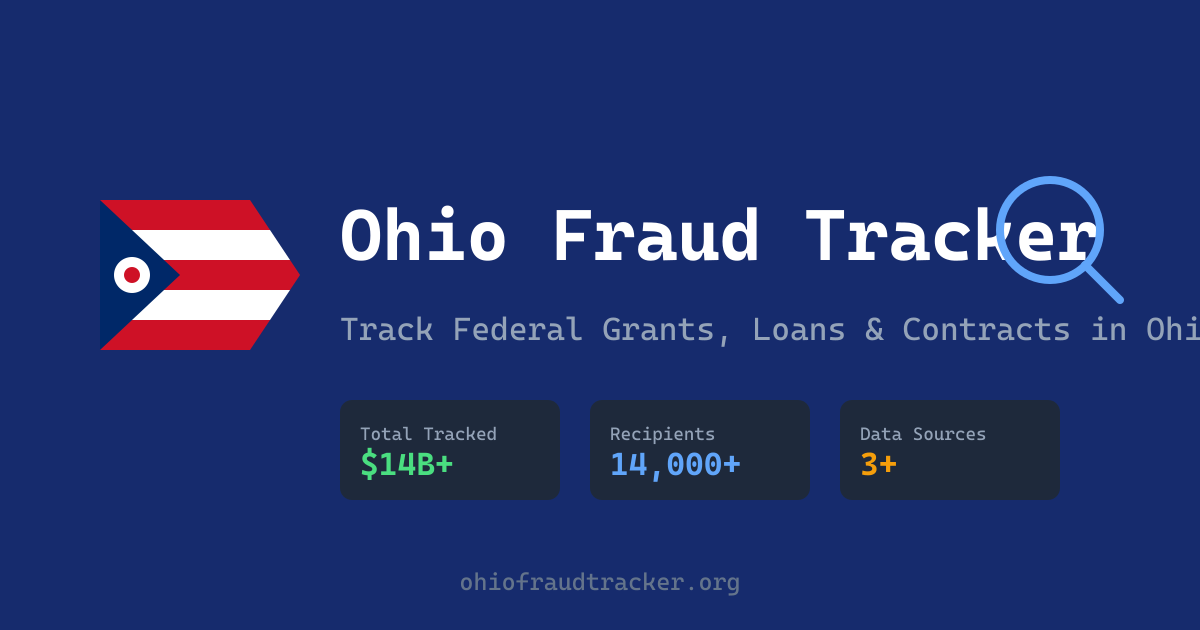
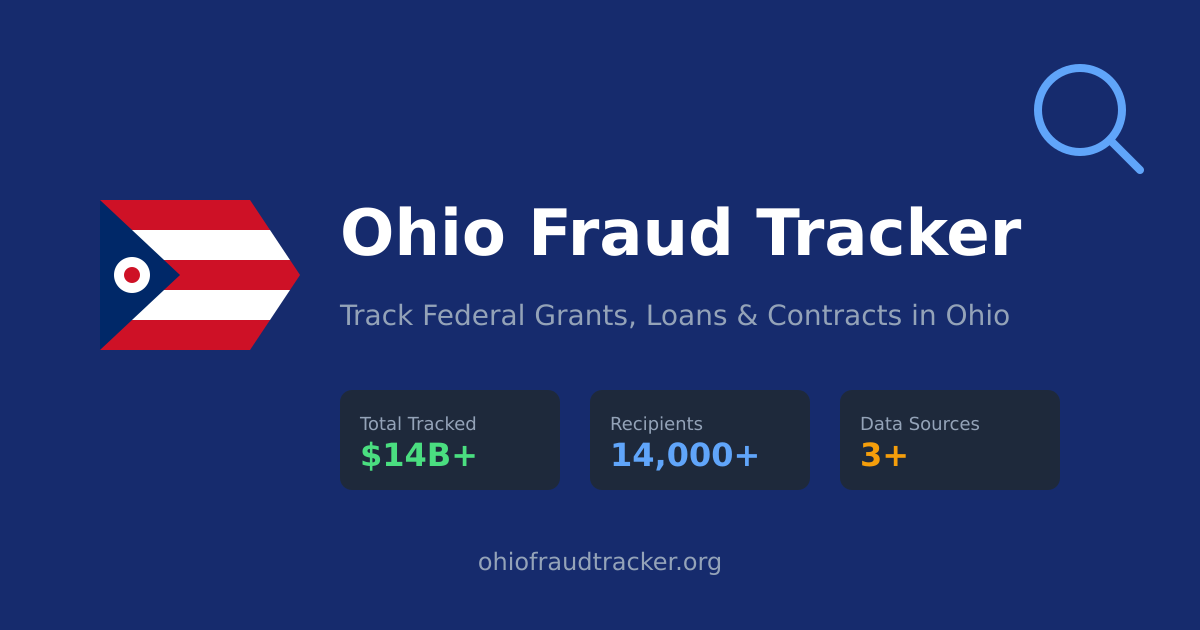
Fix missing X/Open Graph link preview image
The og:image URL (https://ohiofraudtracker.org/og-image.png) returned 404,
so X rendered the link card with a blank placeholder instead of the image.

Astro copies everything in frontend/public/ to the root of the build output,
but the API only served a hand-picked list of paths plus the /_assets mount
for Astro's hashed build output. Nothing served root-level files, so
og-image.png was built and deployed but unreachable.

- Serve root-level static assets from the frontend build, restricted to an
  allowlist of media/text extensions and guarded against path traversal.
- Resolve og:image from the ogImage prop, which was accepted by
  DashboardLayout but ignored in favour of a hardcoded URL.
- Add og:image:secure_url, :type, :width, :height and :alt so scrapers can
  size the card without fetching the image first.
- Re-render og-image.png. The committed PNG had been rasterised with a
  monospace fallback font, overflowing the title and tagline past the right
  edge and colliding with the magnifier icon. Reflowed the source SVG and
  re-rendered it opaque at 1200x630.

diff --git a/api/app/main.py b/api/app/main.py
@@ -303,6 +303,57 @@ async def page_recipient_detail(recipient_id: str):
 
 
 # =============================================================================
+# ROOT-LEVEL STATIC ASSETS
+# =============================================================================
+
+# Files that live at the root of the frontend's `public/` directory (og-image.png,
+# apple-touch-icon.png, site.webmanifest, ...). Astro copies them straight to the
+# root of the build output, but nothing served them: only /_assets (Astro's hashed
+# build output) and a handful of hand-written routes were mounted. Social card
+# scrapers such as Twitterbot and facebookexternalhit fetch og:image by absolute
+# URL, so a missing route meant a 404 and a blank link preview.
+ROOT_ASSET_MEDIA_TYPES = {
+    ".png": "image/png",
+    ".jpg": "image/jpeg",
+    ".jpeg": "image/jpeg",
+    ".gif": "image/gif",
+    ".svg": "image/svg+xml",
+    ".webp": "image/webp",
+    ".ico": "image/x-icon",
+    ".webmanifest": "application/manifest+json",
+    ".json": "application/json",
+    ".txt": "text/plain",
+    ".xml": "application/xml",
+}
+
+
+@app.get("/{asset_name}")
+async def root_static_asset(asset_name: str):
+    """Serve a single-segment static file from the root of the frontend build."""
+    if not STATIC_DIR.exists():
+        raise HTTPException(status_code=404, detail="Not found")
+
+    media_type = ROOT_ASSET_MEDIA_TYPES.get(Path(asset_name).suffix.lower())
+    if media_type is None:
+        raise HTTPException(status_code=404, detail="Not found")
+
+    asset_path = (STATIC_DIR / asset_name).resolve()
+
+    # Refuse anything that escapes the static directory (e.g. "..%2Ffoo.png").
+    if not asset_path.is_relative_to(STATIC_DIR.resolve()):
+        raise HTTPException(status_code=404, detail="Not found")
+
+    if not asset_path.is_file():
+        raise HTTPException(status_code=404, detail="Not found")
+
+    return FileResponse(
+        asset_path,
+        media_type=media_type,
+        headers={"Cache-Control": "public, max-age=3600"},
+    )
+
+
+# =============================================================================
 # STATIC ASSETS - Mount after explicit routes
 # =============================================================================
 
